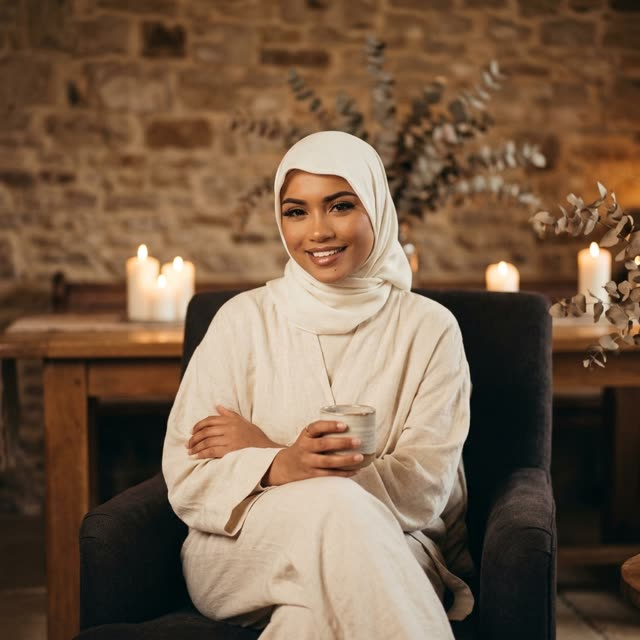
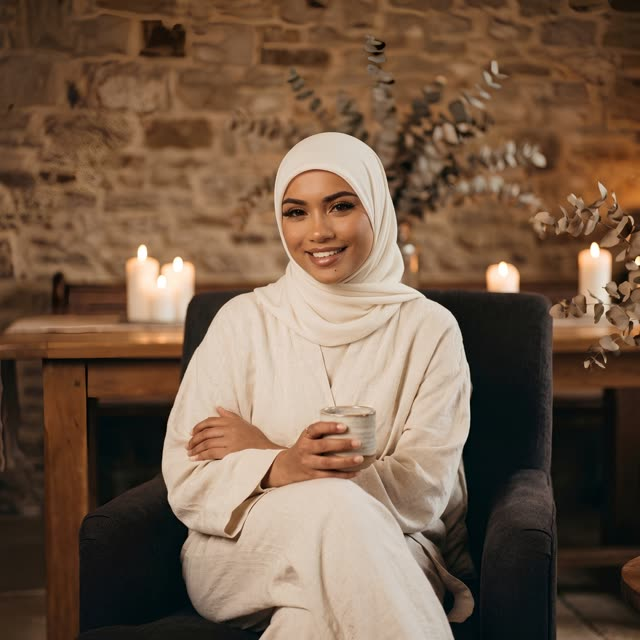
Update founder photo and add OG share image
Replace the hero/About founder photo with the new higher-res shot
(hijab tidied), regenerating the WebP/640w variants from it. Both
sections now share the same halima-hero.* assets — the separate
About-only files are gone. Also fixes a real bug in the About image's
sizing: its CSS never set `height`, so the box fell back to the raw
HTML height="1024"/"1408" attribute instead of the intended 3:4
aspect-ratio, silently stretching the card far taller than it should
render (only caught by checking computed style, not a screenshot).

Also generates a 1200x630 OG/Twitter share crop from the same photo
(images/og-image.jpg) and points every page's og:image/twitter:image
at it, replacing the old generic placeholder graphic.

diff --git a/website-and-booking/index.html b/website-and-booking/index.html
@@ -14,12 +14,12 @@
 <meta property="og:title" content="haloe — Hijama &amp; Cupping in Manchester | Mobile &amp; Clinic Day">
 <meta property="og:description" content="Massage, dry cupping and hijama for women and men. Mobile &mdash; Halima comes to you across Manchester &mdash; or visit our weekly Tuesday clinic day at Milton Hall, Deansgate. CMA &amp; IPHM accredited.">
 <meta property="og:url" content="https://haloe.health/">
-<meta property="og:image" content="https://haloe.health/og-image.jpg">
+<meta property="og:image" content="https://haloe.health/images/og-image.jpg">
 <meta property="og:locale" content="en_GB">
 <meta name="twitter:card" content="summary_large_image">
 <meta name="twitter:title" content="haloe — Hijama &amp; Cupping in Manchester | Mobile &amp; Clinic Day">
 <meta name="twitter:description" content="Massage, dry cupping and hijama for women and men. Mobile &mdash; Halima comes to you across Manchester &mdash; or visit our weekly Tuesday clinic day at Milton Hall, Deansgate. CMA &amp; IPHM accredited.">
-<meta name="twitter:image" content="https://haloe.health/og-image.jpg">
+<meta name="twitter:image" content="https://haloe.health/images/og-image.jpg">
 <!-- LocalBusiness structured data (complementary wellness, not medical) -->
 <script type="application/ld+json">
 {
@@ -29,7 +29,7 @@
   "description": "Hijama and cupping wellness service for women and men, supporting relaxation, circulation and general wellbeing. Mobile across Greater Manchester, plus a weekly Tuesday clinic day at Milton Hall, Deansgate. CMA and IPHM accredited.",
   "url": "https://haloe.health/",
   "logo": "https://haloe.health/favicon.svg",
-  "image": "https://haloe.health/og-image.jpg",
+  "image": "https://haloe.health/images/og-image.jpg",
   "areaServed": "Greater Manchester",
   "location": {
     "@type": "Place",
@@ -311,7 +311,7 @@
     .about-figure img { max-width:360px; }
   }
   .about-figure img {
-    width:100%; max-width:280px; aspect-ratio:3/4; object-fit:cover;
+    width:100%; height:auto; max-width:280px; aspect-ratio:3/4; object-fit:cover;
     object-position:50% 25%; border-radius:var(--card-radius); margin:0 auto; display:block;
   }
 
@@ -556,9 +556,9 @@
   <div class="container">
     <figure class="hero-photo reveal">
       <picture>
-        <source type="image/webp" srcset="images/halima-hero-640.webp 640w, images/halima-hero.webp 1024w" sizes="(min-width: 768px) 600px, 100vw">
-        <source type="image/jpeg" srcset="images/halima-hero-640.jpg 640w, images/halima-hero.jpg 1024w" sizes="(min-width: 768px) 600px, 100vw">
-        <img src="images/halima-hero.jpg" width="1024" height="1024" alt="Halima Yasmin, founder of haloe, seated with a cup of tea" loading="eager" fetchpriority="high">
+        <source type="image/webp" srcset="images/halima-hero-640.webp 640w, images/halima-hero.webp 1408w" sizes="(min-width: 768px) 600px, 100vw">
+        <source type="image/jpeg" srcset="images/halima-hero-640.jpg 640w, images/halima-hero.jpg 1408w" sizes="(min-width: 768px) 600px, 100vw">
+        <img src="images/halima-hero.jpg" width="1408" height="1408" alt="Halima Yasmin, founder of haloe, seated with a cup of tea" loading="eager" fetchpriority="high">
       </picture>
     </figure>
     <div class="badge-pill reveal">
@@ -638,9 +638,9 @@
       </div>
       <div class="about-figure">
         <picture>
-          <source type="image/webp" srcset="images/halima-about-640.webp 640w, images/halima-about.webp 1024w" sizes="(min-width: 1024px) 360px, 280px">
-          <source type="image/jpeg" srcset="images/halima-about-640.jpg 640w, images/halima-about.jpg 1024w" sizes="(min-width: 1024px) 360px, 280px">
-          <img src="images/halima-about.jpg" width="1024" height="1024" alt="Halima Yasmin, founder of haloe, seated with a cup of tea" loading="lazy">
+          <source type="image/webp" srcset="images/halima-hero-640.webp 640w, images/halima-hero.webp 1408w" sizes="(min-width: 1024px) 360px, 280px">
+          <source type="image/jpeg" srcset="images/halima-hero-640.jpg 640w, images/halima-hero.jpg 1408w" sizes="(min-width: 1024px) 360px, 280px">
+          <img src="images/halima-hero.jpg" width="1408" height="1408" alt="Halima Yasmin, founder of haloe, seated with a cup of tea" loading="lazy">
         </picture>
       </div>
     </div>

diff --git a/website-and-booking/before-your-session.html b/website-and-booking/before-your-session.html
@@ -14,12 +14,12 @@
 <meta property="og:title" content="Your Session — What to Expect | haloe">
 <meta property="og:description" content="Everything to expect at your haloe hijama session in Manchester, and how to prepare. A calm wellness space for women and men.">
 <meta property="og:url" content="https://haloe.health/before-your-session.html">
-<meta property="og:image" content="https://haloe.health/og-image.jpg">
+<meta property="og:image" content="https://haloe.health/images/og-image.jpg">
 <meta property="og:locale" content="en_GB">
 <meta name="twitter:card" content="summary_large_image">
 <meta name="twitter:title" content="Your Session — What to Expect | haloe">
 <meta name="twitter:description" content="Everything to expect at your haloe hijama session in Manchester, and how to prepare. A calm wellness space for women and men.">
-<meta name="twitter:image" content="https://haloe.health/og-image.jpg">
+<meta name="twitter:image" content="https://haloe.health/images/og-image.jpg">
 <link rel="preconnect" href="https://fonts.googleapis.com">
 <link href="https://fonts.googleapis.com/css2?family=Poppins:ital,wght@0,300;0,400;0,500;0,600;1,300;1,400&display=swap" rel="stylesheet">
 <style>

diff --git a/website-and-booking/hijama-manchester.html b/website-and-booking/hijama-manchester.html
@@ -13,12 +13,12 @@
 <meta property="og:title" content="Hijama in Manchester — Deansgate Clinic &amp; Mobile Visits">
 <meta property="og:description" content="Hijama (wet cupping) in Manchester with haloe. Weekly Tuesday clinic day at Milton Hall, Deansgate, or a mobile visit across Greater Manchester.">
 <meta property="og:url" content="https://haloe.health/hijama-manchester.html">
-<meta property="og:image" content="https://haloe.health/og-image.jpg">
+<meta property="og:image" content="https://haloe.health/images/og-image.jpg">
 <meta property="og:locale" content="en_GB">
 <meta name="twitter:card" content="summary_large_image">
 <meta name="twitter:title" content="Hijama in Manchester — Deansgate Clinic &amp; Mobile Visits">
 <meta name="twitter:description" content="Hijama (wet cupping) in Manchester with haloe. Weekly Tuesday clinic day at Milton Hall, Deansgate, or a mobile visit across Greater Manchester.">
-<meta name="twitter:image" content="https://haloe.health/og-image.jpg">
+<meta name="twitter:image" content="https://haloe.health/images/og-image.jpg">
 <script type="application/ld+json">
 {
   "@context": "https://schema.org",

diff --git a/website-and-booking/book.html b/website-and-booking/book.html
@@ -13,12 +13,12 @@
 <meta property="og:title" content="Book a Session — haloe Hijama Manchester">
 <meta property="og:description" content="Book your hijama or cupping session in Manchester with haloe. Secure online booking.">
 <meta property="og:url" content="https://haloe.health/book.html">
-<meta property="og:image" content="https://haloe.health/og-image.jpg">
+<meta property="og:image" content="https://haloe.health/images/og-image.jpg">
 <meta property="og:locale" content="en_GB">
 <meta name="twitter:card" content="summary_large_image">
 <meta name="twitter:title" content="Book a Session — haloe Hijama Manchester">
 <meta name="twitter:description" content="Book your hijama or cupping session in Manchester with haloe. Secure online booking.">
-<meta name="twitter:image" content="https://haloe.health/og-image.jpg">
+<meta name="twitter:image" content="https://haloe.health/images/og-image.jpg">
 <link href="https://fonts.googleapis.com/css2?family=Poppins:wght@300;400;500;600&family=Playfair+Display:ital,wght@0,500;0,600;1,500&display=swap" rel="stylesheet">
 <style>
   /* ── Branded loading screen (presentation only) ── */
